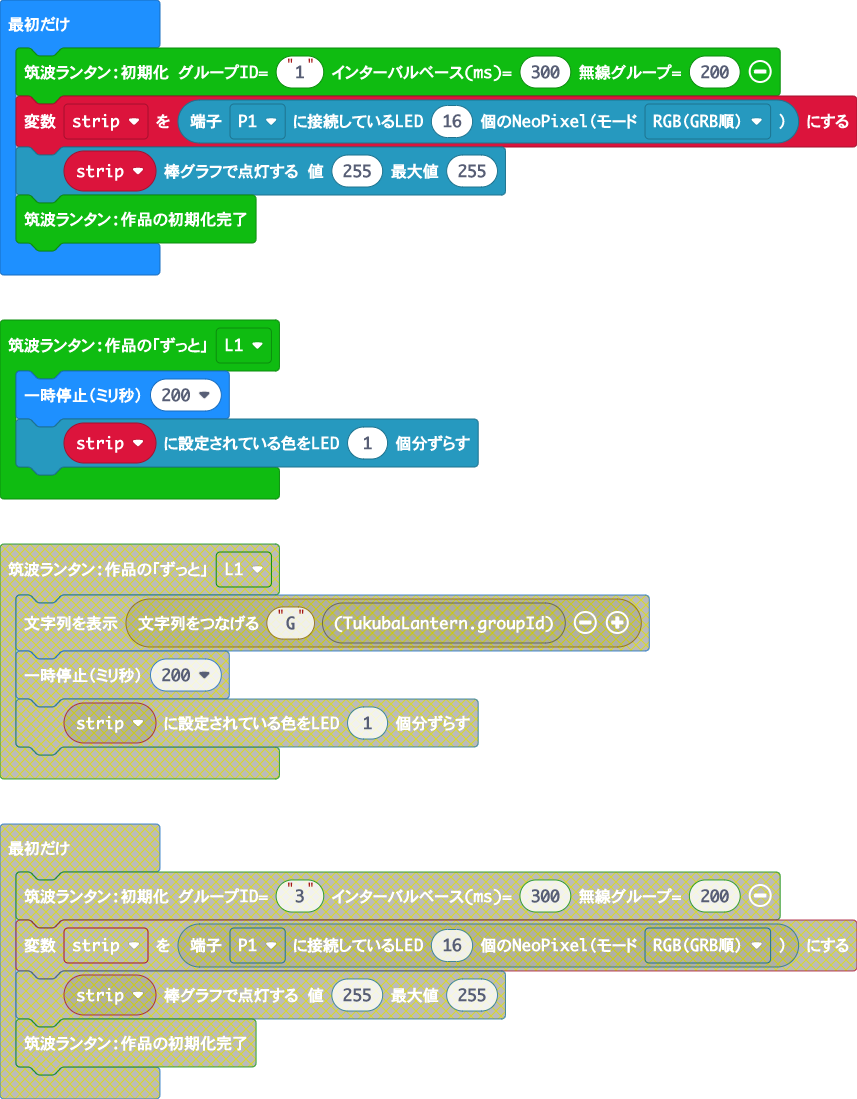
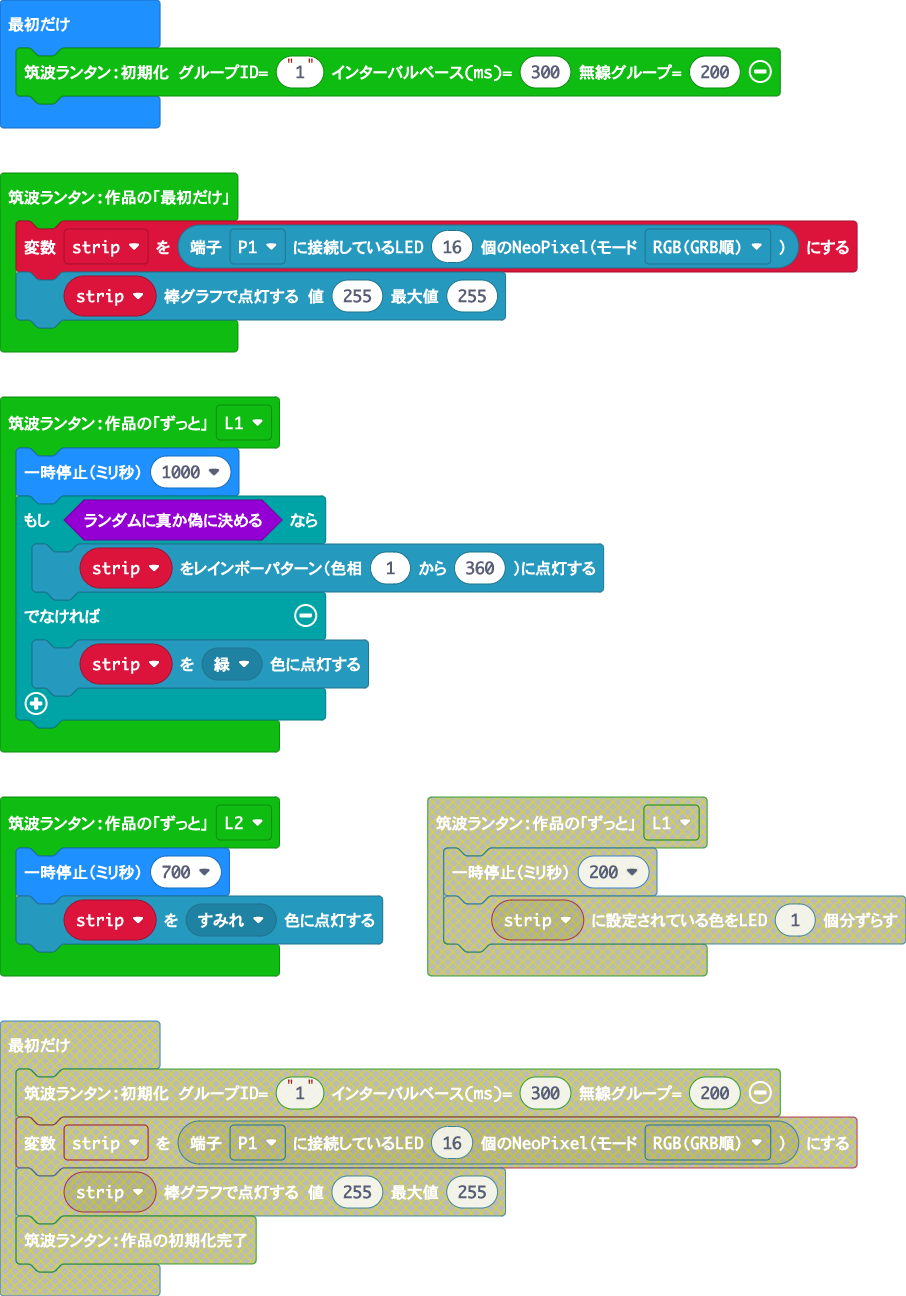
更新 pxt.json, main.blocks, main.ts, custom.ts

diff --git a/custom.ts b/custom.ts
@@ -15,7 +15,7 @@ namespace TukubaLantern {
     let userInitialized = false
     let playStarted = false;
     let stripPMode: neopixel.Strip = null
-    let userInits: Array<() => void> = []
+    let userInit: () => void = null
     export let mode: "U" | "P" = "U"
     export let groupId: string = "1"
     export let radioGroup: number = 200
@@ -100,23 +100,23 @@ namespace TukubaLantern {
         basic.forever(lanternLoop)
         // 初期化完了フラグは最後に立てる
         initialized = true
+        // 作品の「最初だけ」を実行
+        if(userInit) {
+            userInit()
+        }
+        userInitialized = true
     }
 
     //% blockId="lantern_initialized"
     //% block="筑波ランタン:作品の初期化完了"
     //% group="初期化と実行"
     //% weight=18
+    //% deprecated=true
     export function lanternUserInitialized(): void {
         userInitialized = true
     }
 
-    //% blockId="lantern_loop"
-    //% block="筑波ランタン:ループ処理"
-    //% group="初期化と実行"
-    //% weight=17
-    //% deprecated=true
-    //% advanced=true
-    export function lanternLoop(): void {
+    function lanternLoop(): void {
         if (!initialized) {
             return
         }
@@ -197,4 +197,10 @@ namespace TukubaLantern {
         })
     }
 
+    //% group="初期化と実行" weight=16
+    //% blockId="lantern_userInit"
+    //% block="筑波ランタン:作品の「最初だけ」"
+    export function userInitBlock(f: () => void) {
+        userInit = f
+    }
 }

diff --git a/main.ts b/main.ts
@@ -1,10 +1,22 @@
+TukubaLantern.userInitBlock(function () {
+    strip = neopixel.create(DigitalPin.P1, 16, NeoPixelMode.RGB)
+    strip.showBarGraph(255, 255)
+})
 input.onButtonPressed(Button.A, function () {
     radio.sendString("137")
     radio.sendString("P")
 })
+TukubaLantern.userLoop(TukubaLantern.UserLoops.L2, function () {
+    basic.pause(700)
+    strip.showColor(neopixel.colors(NeoPixelColors.Violet))
+})
 TukubaLantern.userLoop(TukubaLantern.UserLoops.L1, function () {
-    basic.pause(200)
-    strip.shift(1)
+    basic.pause(1000)
+    if (Math.randomBoolean()) {
+        strip.showRainbow(1, 360)
+    } else {
+        strip.showColor(neopixel.colors(NeoPixelColors.Green))
+    }
 })
 input.onButtonPressed(Button.AB, function () {
     radio.sendString("0112345671234567")
@@ -16,6 +28,3 @@ input.onButtonPressed(Button.B, function () {
 })
 let strip: neopixel.Strip = null
 TukubaLantern.lanternInit("1", 300, 200)
-strip = neopixel.create(DigitalPin.P1, 16, NeoPixelMode.RGB)
-strip.showBarGraph(255, 255)
-TukubaLantern.lanternUserInitialized()
